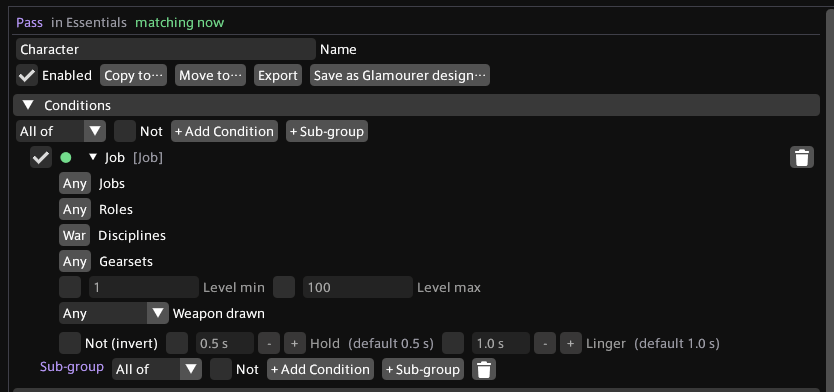
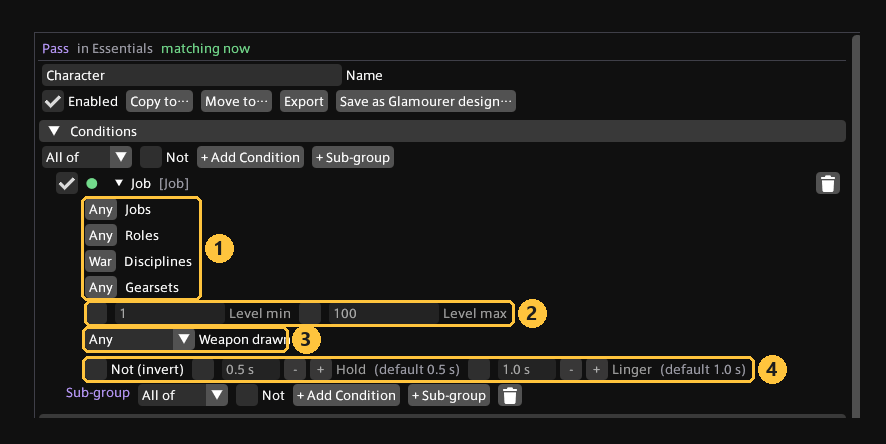
README: numbered highlights on the UI screenshots, captions explain each number

Changed region(s): [[0.0, 0.0, 1.0, 1.0]]

diff --git a/README.md b/README.md
@@ -13,7 +13,7 @@ This is the most important thing to know. Lamina never touches your main collect
 
 ![Penumbra collection status in the Settings tab](images/readme/00-penumbra-collection.png)
 
-The Settings tab shows the collection's status. Green means the collection exists and your character is assigned to it. If it is missing or not assigned, the same line tells you what to do. Lamina never assigns or unassigns the collection itself; to opt out of mod changes, unassign it in Penumbra and Lamina clears what it wrote within a second. Glamourer, Honorific, Moodles, Customize+ and Simple Heels still apply without the collection; only mods need it.
+In the Settings tab: (1) the collection name Lamina looks for, (2) Refresh after you create or assign it in Penumbra, (3) the status line. Green means the collection exists and your character is assigned to it. If it is missing or not assigned, the same line tells you what to do. Lamina never assigns or unassigns the collection itself; to opt out of mod changes, unassign it in Penumbra and Lamina clears what it wrote within a second. Glamourer, Honorific, Moodles, Customize+ and Simple Heels still apply without the collection; only mods need it.
 
 ### One switch, a whole character
 Lamina off is your plain Glamourer and Penumbra state. Lamina on is whatever the active profile resolves to: outfit, hair, hair colour, body mods, titles, tattoos. Flipping the switch is one redraw either way.
@@ -29,27 +29,39 @@ A profile is a complete Lamina setup. Keep one per character (or per mood) and t
 
 ![The Profiles tab](images/readme/01-profiles.png)
 
+(1) Create a profile or import one from the clipboard. (2) The On column: tick a profile to make it the active one, the dot marks which one is live. (3) Per-profile actions: edit, rename, duplicate, export to clipboard, delete.
+
 ### Pass groups and passes
 Inside a profile, looks are organized into **pass groups** and **passes**. Groups are checked top to bottom and the first group whose conditions match wins. Inside a group every matching pass contributes its layers, and lower passes override higher ones. A group marked **Final Pass** stops evaluation after it.
 
 ![The Passes tab: groups, passes, and the selected pass](images/readme/03-passes-overview.png)
 
+(1) The profile you are editing, with a live indicator. (2) Pass groups, checked top to bottom; the first group whose conditions match wins. (3) The passes in the selected group; lower rows override higher ones, and a green tick marks a pass that matches right now. (4) The selected pass's conditions. (5) Its layers.
+
 A group can carry its own conditions, so a whole set of passes only exists while, say, you are in a housing district or on a healer job.
 
 ![Pass group with group conditions](images/readme/04-pass-group.png)
+
+(1) The group is active now. (2) Final Pass: stop evaluating groups after this one. (3) Group conditions, which gate every pass inside the group.
 
 ### Conditions
 Each pass (and each group) has a condition tree. Conditions combine with **All of** or **Any of**, can be negated with **Not**, and nest into sub-groups for anything more involved.
 
 ![All of / Any of](images/readme/05-group-all-any.png)
 
+(1) All of / Any of. (2) Not inverts the whole block. (3) Add a condition. (4) Add a nested sub-group with its own All of / Any of.
+
 Condition types cover time, calendar, weather, biome, location, duty, housing, social state, character, job, online status, status effects, movement, body state, emote or pose, and activity.
 
 ![Condition types](images/readme/06-condition-types.png)
 
+(1) Add Condition opens (2) the list of condition types.
+
 Each type has its own editor. The Job condition, for example, matches on jobs, roles, disciplines or gearsets, a level range and whether the weapon is drawn, with hold and linger timers so a quick weapon flick does not flicker your outfit.
 
 ![The Job condition](images/readme/07-condition-job.png)
+
+(1) Match on jobs, roles, disciplines or gearsets. (2) Level range. (3) Weapon drawn or sheathed. (4) Not inverts the condition; Hold and Linger delay the switch on and off.
 
 ### Layers
 A pass is a stack of layers, and lower layers override the ones above them. Layer types: Glamourer design, Equipment Changes, Equipment Cleanse, Appearance Changes, Penumbra Adjust, Vitrine Design, Honorific, Moodles, Customize+, Simple Heels and Decal.
@@ -58,13 +70,19 @@ A pass is a stack of layers, and lower layers override the ones above them. Laye
 
 ![Penumbra Adjust layer](images/readme/08-layer-penumbra-adjust.png)
 
+(1) The "applies" checkboxes next to State and Priority: only ticked parts are written, the rest is inherited. (2) Each mod's option groups, with the same per-group checkboxes. (3) Add a mod, or re-read the Lamina collection to pick up what Penumbra has.
+
 **Appearance Changes** edits the Glamourer customization fields directly, no saved design needed. Only ticked fields apply; everything else passes through from the layers above. Here a Vitrine hair design is stacked with a hair colour and highlights colour change.
 
 ![Vitrine hair design plus Appearance Changes](images/readme/09-layer-vitrine-hair-appearance.png)
 
+(1) The Vitrine layer's switches: override the mod's settings, clear other slots, and apply the design's hair / face / tail value. (2) The two Appearance Changes fields that are ticked and therefore applied; the unticked rows show the current value and pass through.
+
 **Equipment Changes** does the same for gear: an item per slot, dyes, crest, and hat / visor / weapon / Viera ears visibility. Here it recolours the body and feet of the outfit layered above it.
 
 ![Equipment Changes layer](images/readme/12-layer-equipment-changes.png)
+
+(1) Item per slot; "(keep)" leaves the item from the layers above. (2) The dye "applies" checkboxes: ticked, so these dyes are written over the outfit. (3) Hat, visor, weapon and Viera ears visibility.
 
 ### Outfits from Vitrine
 With the separate [Vitrine](https://github.com/AHAKuo/FFXIVVitrine) plugin installed, any mod in your Penumbra collection becomes a design you can drop into a pass. Vitrine shows the mod's own preview photo and the items it affects.
@@ -74,6 +92,8 @@ With the separate [Vitrine](https://github.com/AHAKuo/FFXIVVitrine) plugin insta
 The **Vitrine Design** layer carries the mod's settings and the pieces the design equips. **Override slots** lets one pass take the body from one design and the boots from another, and **Clear other slots** empties every slot the design does not fill so an earlier outfit does not bleed through.
 
 ![Vitrine Design layer](images/readme/11-layer-vitrine-outfit.png)
+
+(1) Override the mod's option settings for this pass. (2) Clear other slots: design default, forced on, or forced off. (3) Override slots to take only some of the pieces. (4) The pieces this design equips.
 
 ### Tattoos, freckles and beauty marks (Decal layer)
 The **Decal** layer puts a PNG or JPG on your character's skin. It is experimental: it needs a click on true skin, mirrored-UV bodies show it on both sides, and some body mods replace the skin texture in ways the bake cannot follow.
@@ -99,6 +119,8 @@ The decal is part of the skin, so it holds up from any angle and in any light.
 Decals stack. This pass carries three: a beauty mark on the chest, a tattoo on the arm and freckles on the face.
 
 ![Three decal layers in one pass](images/readme/19-decal-stack.png)
+
+(1) Lower layers override. (2) Three Decal layers stacked in one pass, each with its own spot and size.
 
 <img src="images/readme/20-decal-face.png" width="500" alt="Freckles from a face decal and a beauty mark on the chest">
 
